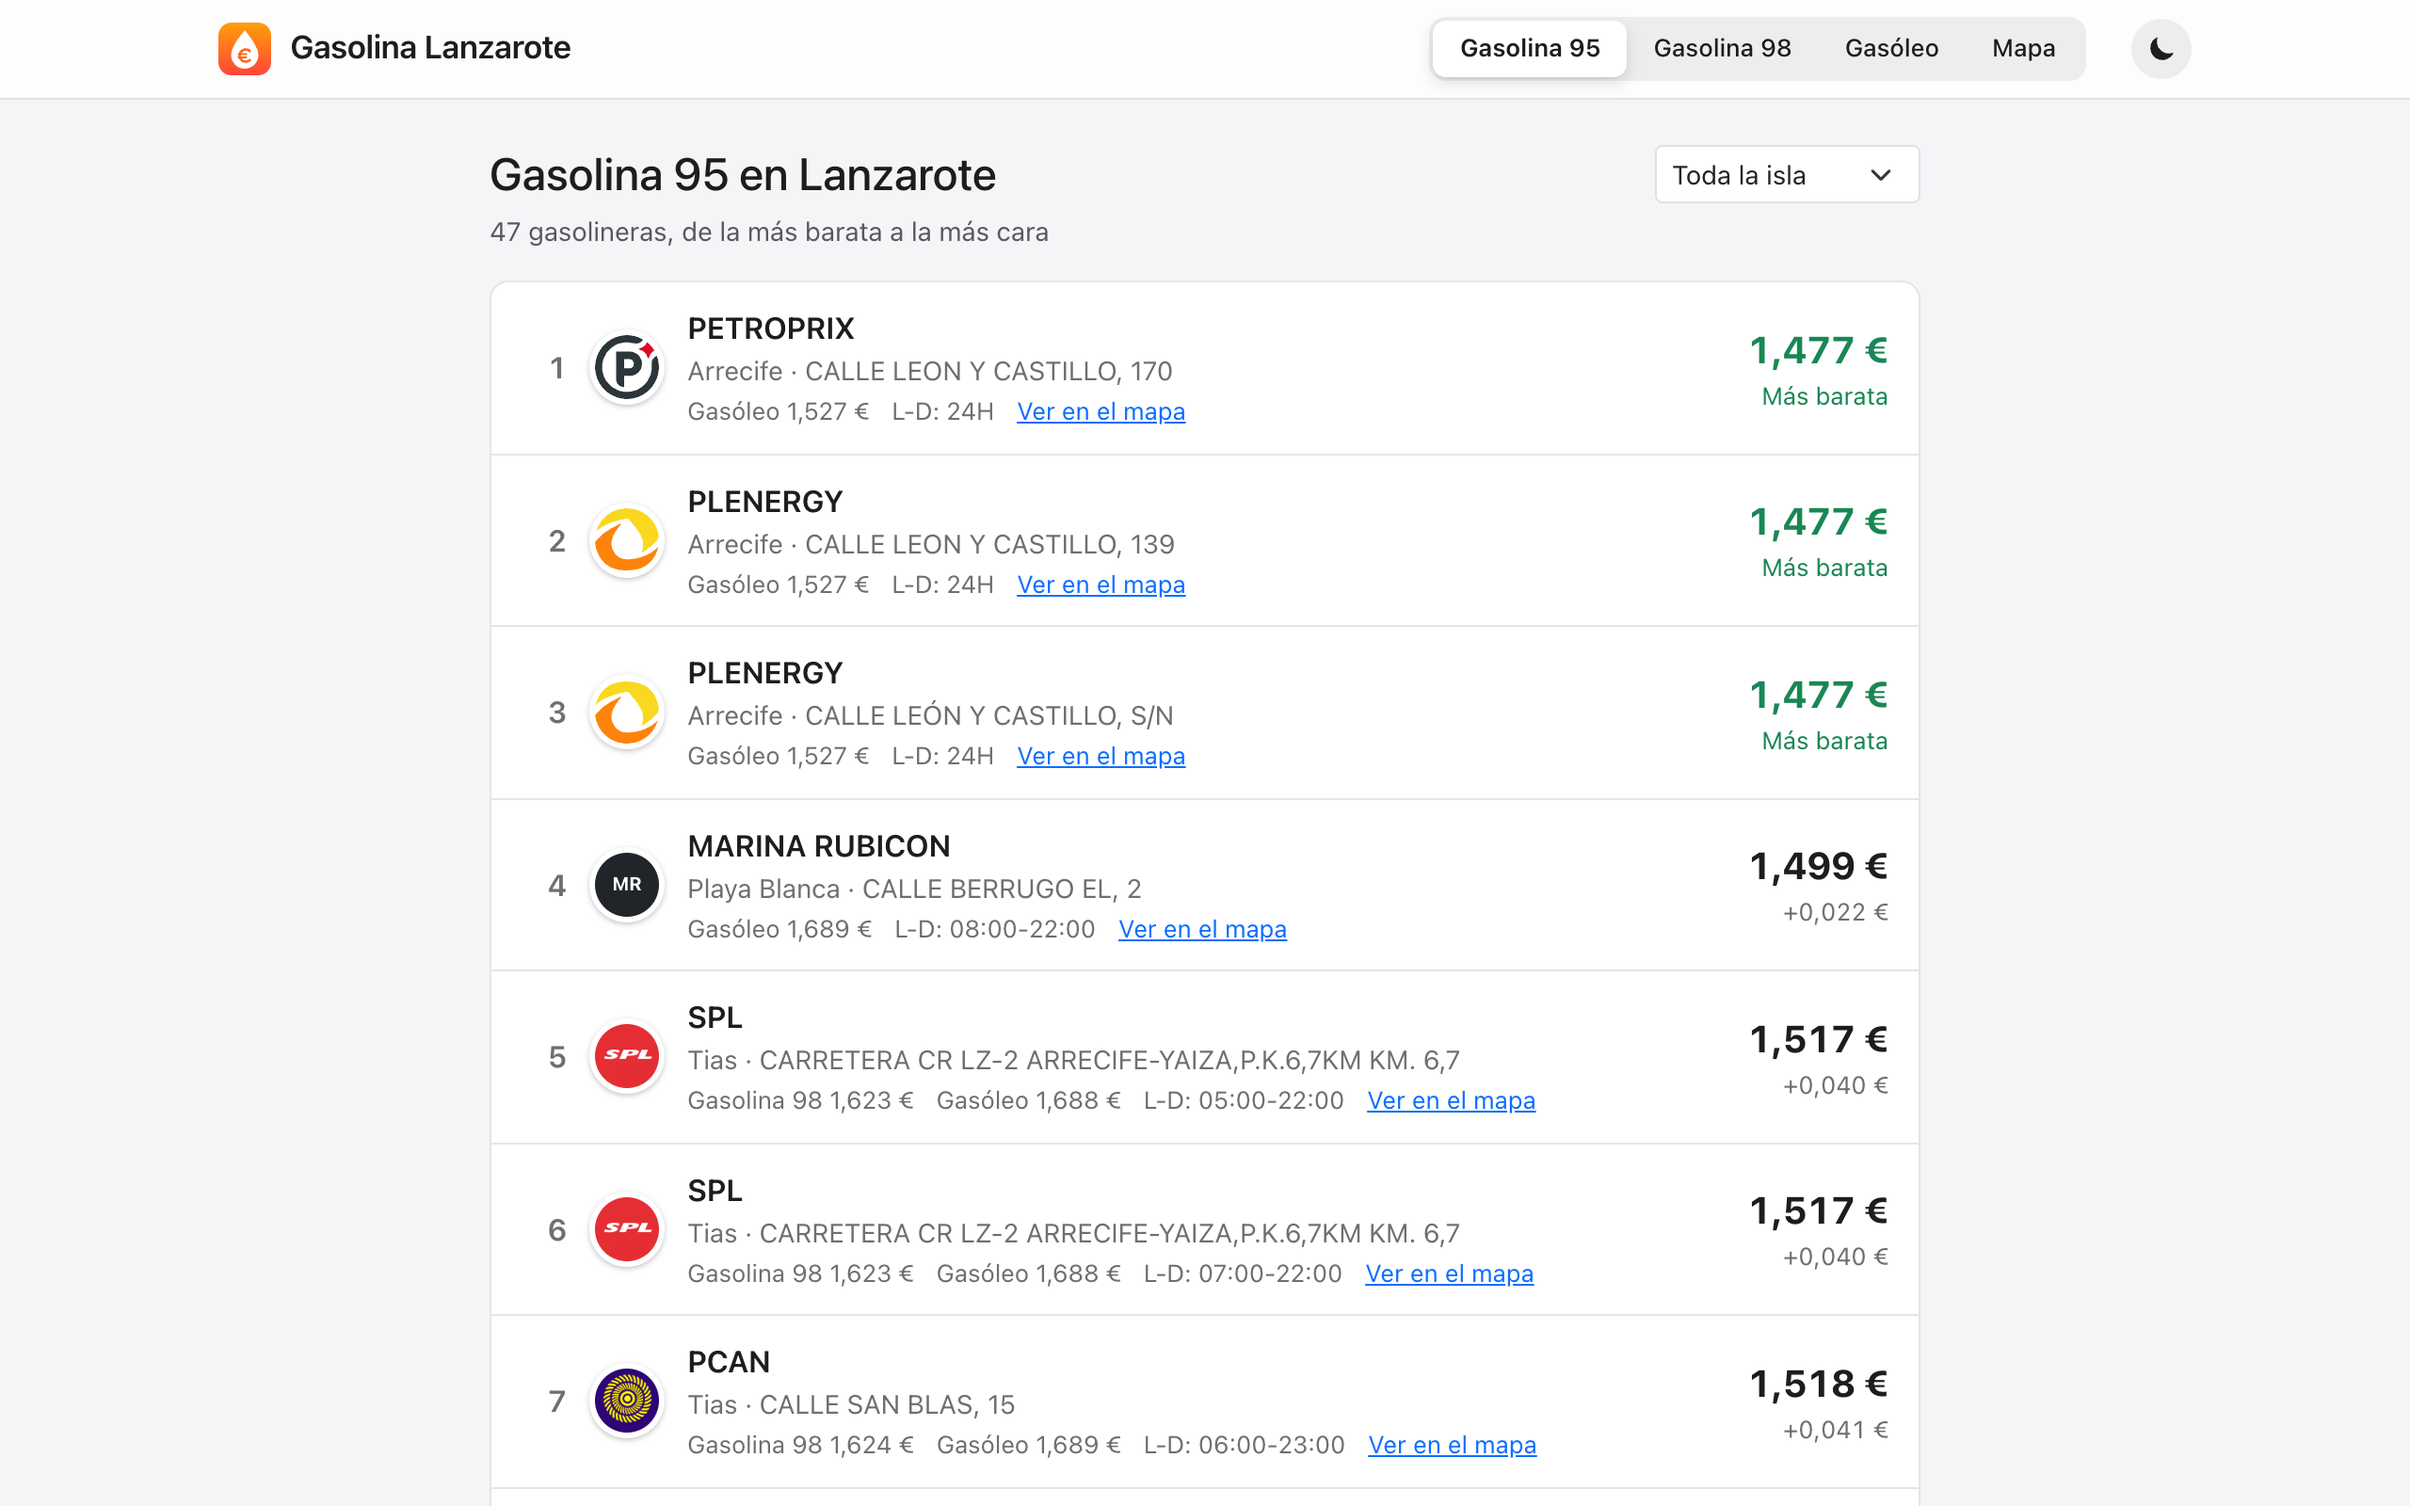
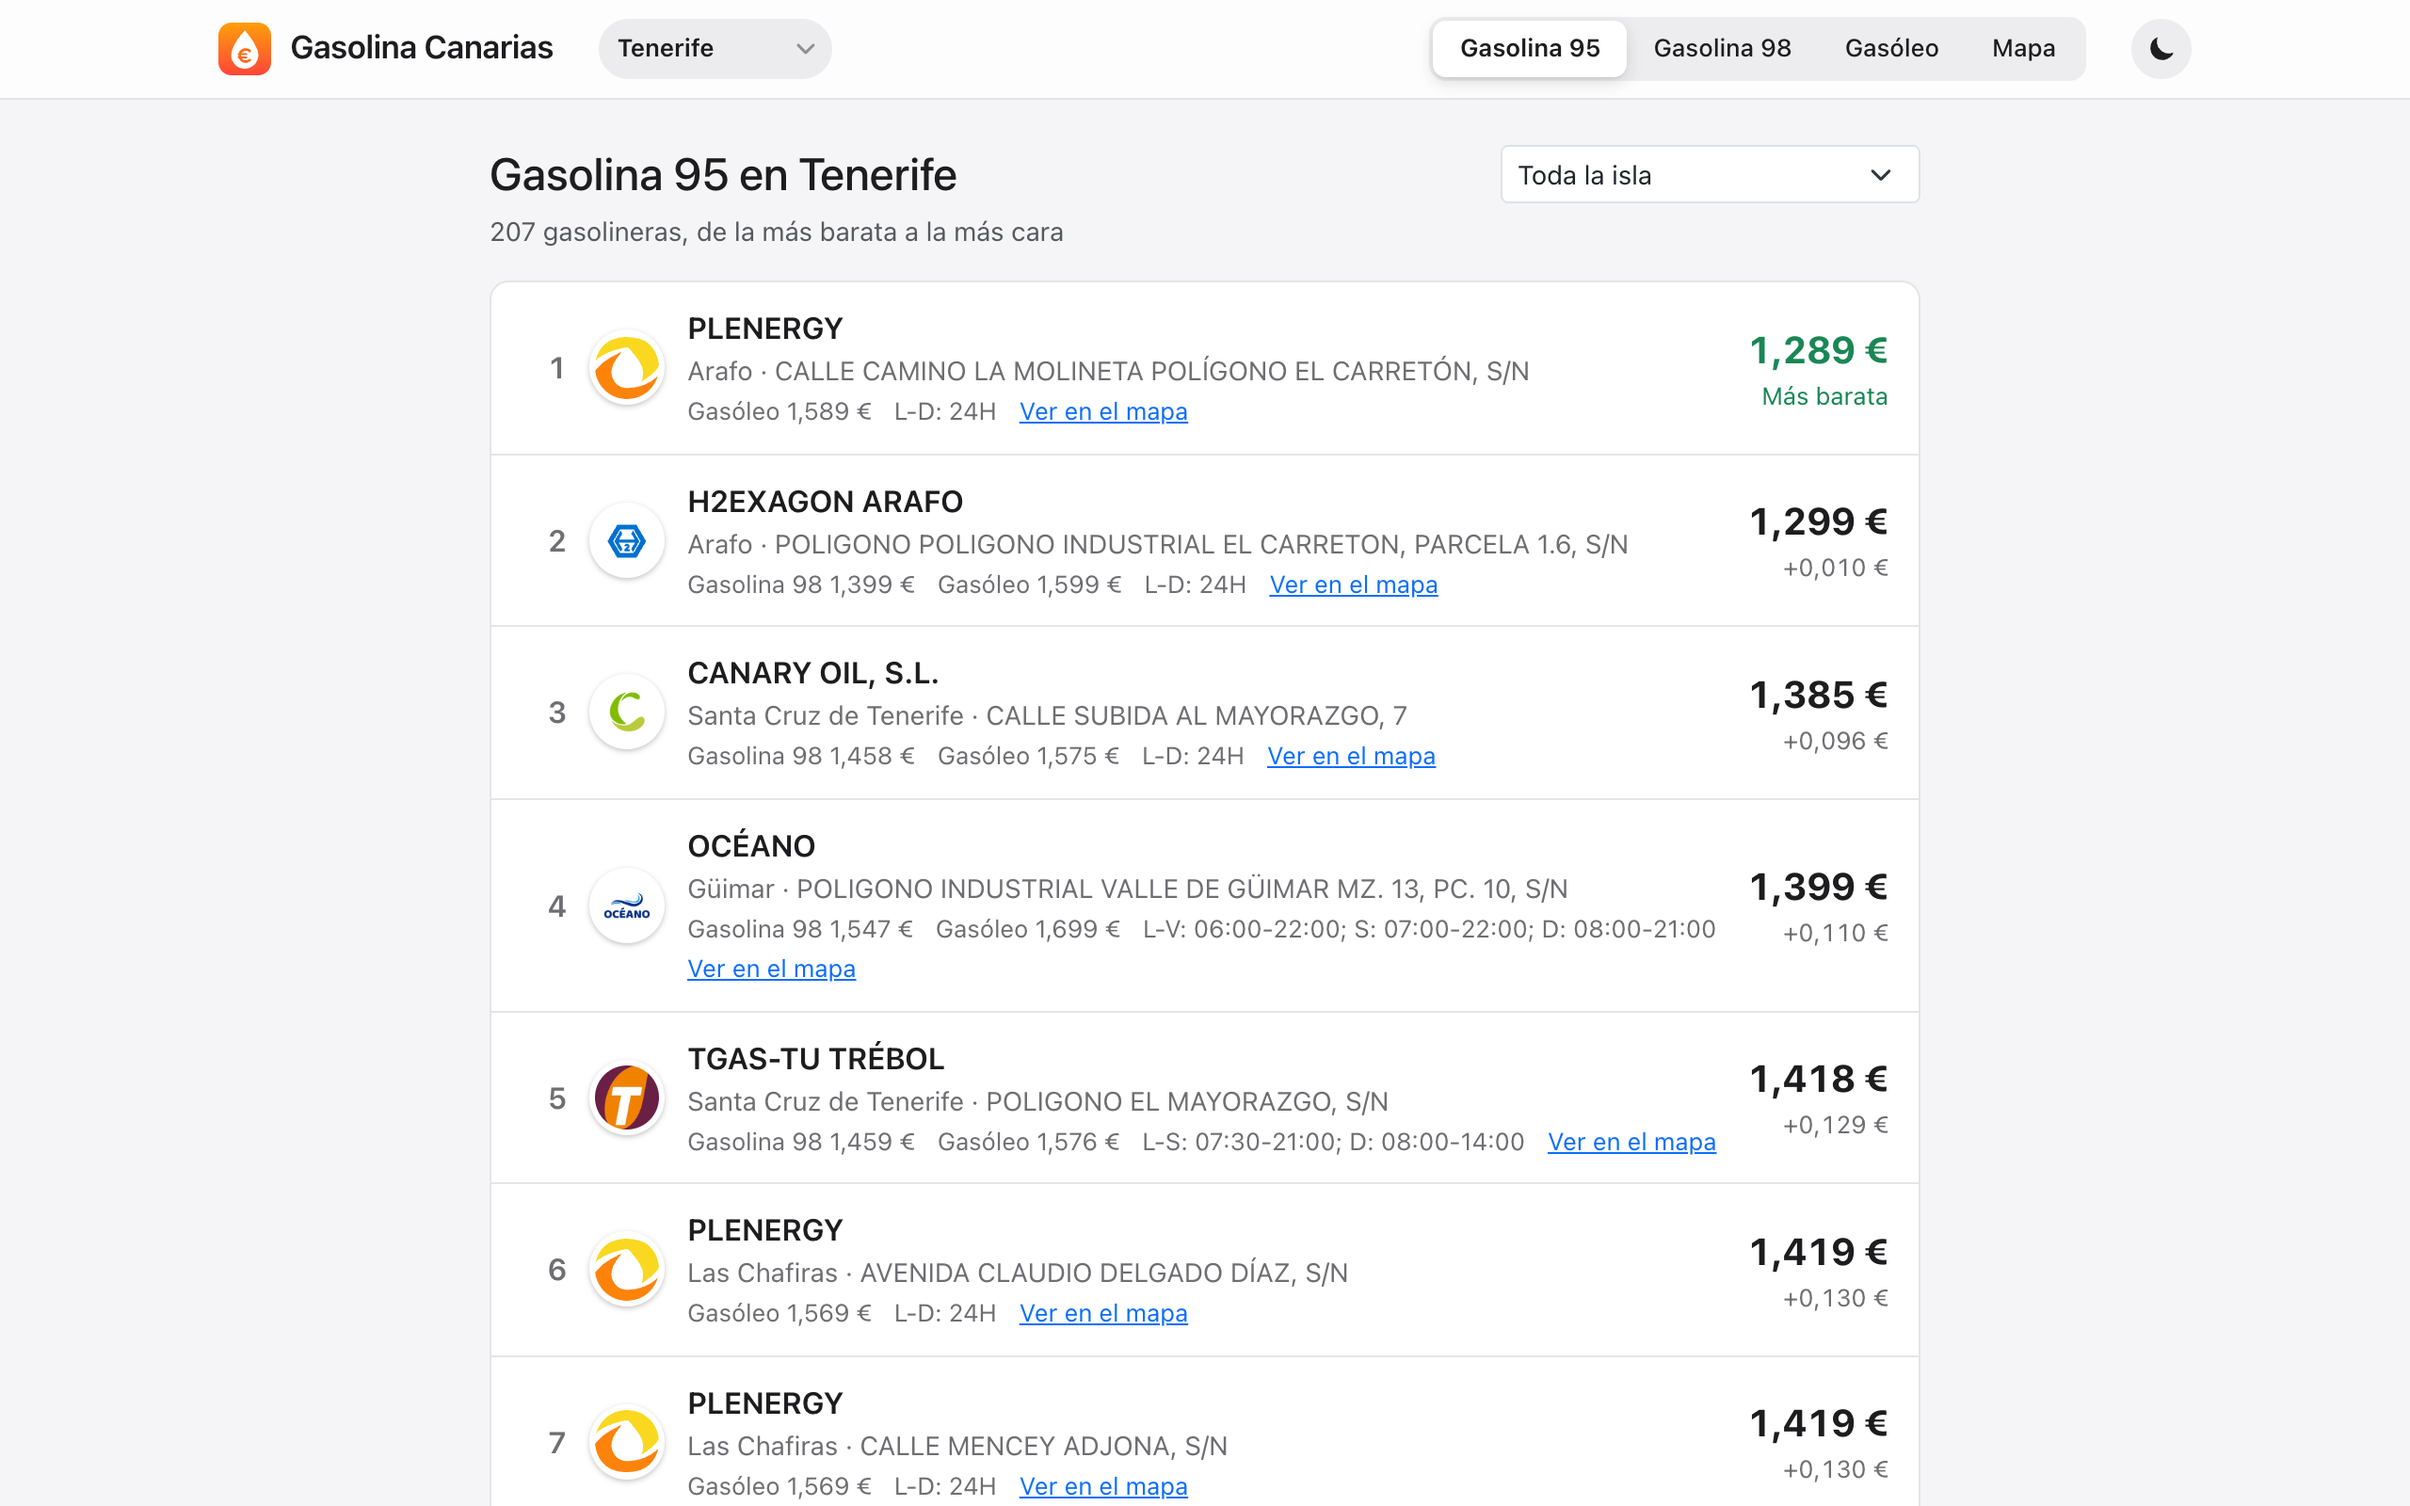
docs(website): update README for all the Canary Islands
New screenshots (Tenerife ranking, Fuerteventura map, Puerto del Rosario
and Las Palmas on mobile), links to the renamed repo, and notes on
island routes and brand logos.

diff --git a/src/utils/marcas.ts b/src/utils/marcas.ts
@@ -28,7 +28,7 @@ const MARCAS: { claves: string[]; nombre: string; logo: string }[] = [
     nombre: 'Combustibles Canarios',
     logo: 'combustibles-canarios.jpg',
   },
-  // https://www.combustiblesantana.com/ (Tuineje, Fuerteventura)
+  // https://www.combustiblesantana.com/ (Fuerteventura y Gran Canaria)
   { claves: ['SANTANA DOMINGUEZ'], nombre: 'Santana Domínguez', logo: 'santana-dominguez.png' },
   // https://canaryoil.com/ (Tenerife y Gran Canaria)
   { claves: ['CANARY OIL'], nombre: 'Canary Oil', logo: 'canary-oil.png' },

diff --git a/README.md b/README.md
@@ -1,30 +1,32 @@
 # Gasolina Canarias
 
-Web que muestra los precios de la gasolina 95, la gasolina 98 y el gasóleo en las gasolineras de las siete islas Canarias, ordenados de más barato a más caro, y un mapa con todas las estaciones.
+Web que muestra los precios de la gasolina 95, la gasolina 98 y el gasóleo en las casi 500 gasolineras de las siete islas Canarias, ordenados de más barato a más caro, y un mapa con todas las estaciones.
 
-**[Ver la web](https://aledeleonez.github.io/appPrecioGasolinaLanzarote/)**
+**[Ver la web](https://aledeleonez.github.io/PrecioGasolinaCanarias/)**
 
-![Ranking de precios de la gasolina 95 en Lanzarote](docs/capturas/lista.png)
+![Ranking de precios de la gasolina 95 en Tenerife](docs/capturas/lista.png)
 
 ## Qué puedes hacer
 
-- Elegir la isla: Lanzarote, Fuerteventura, Gran Canaria, Tenerife, La Gomera, La Palma o El Hierro (unas 500 gasolineras en total).
+- Elegir la isla: Lanzarote, Fuerteventura, Gran Canaria, Tenerife, La Gomera, La Palma o El Hierro. La portada abre la última que elegiste.
 - Ver el ranking de las gasolineras de la isla para cada carburante, con la diferencia de precio respecto a la más barata.
-- Filtrar por municipio y compartir el enlace ya filtrado (por ejemplo, [gasóleo en Tías](https://aledeleonez.github.io/appPrecioGasolinaLanzarote/lanzarote/gasoleo?municipio=tias) o [gasolina 95 en La Oliva](https://aledeleonez.github.io/appPrecioGasolinaLanzarote/fuerteventura?municipio=la-oliva)).
-- Buscar gasolineras en el mapa y ver sus precios al pulsar en ellas.
+- Filtrar por municipio y compartir el enlace ya filtrado, por ejemplo [gasóleo en Puerto del Rosario](https://aledeleonez.github.io/PrecioGasolinaCanarias/fuerteventura/gasoleo?municipio=puerto-del-rosario) o [gasolina 95 en Las Palmas de Gran Canaria](https://aledeleonez.github.io/PrecioGasolinaCanarias/gran-canaria?municipio=las-palmas-de-gran-canaria).
+- Buscar gasolineras en el mapa de cada isla, con el logo de su marca, y ver sus precios al pulsar en ellas.
 - Usarla en el móvil y en modo claro u oscuro.
 
-![Mapa de gasolineras de Lanzarote con sus logos, agrupadas por zona](docs/capturas/mapa.png)
+![Mapa de gasolineras de Fuerteventura con sus logos, agrupadas por zona](docs/capturas/mapa.png)
 
 | Móvil | Modo oscuro |
 | :---: | :---: |
-| <img src="docs/capturas/movil-claro.png" alt="Precios del gasóleo en Tías en el móvil" width="300"> | <img src="docs/capturas/movil-oscuro.png" alt="Lista de precios en modo oscuro en el móvil" width="300"> |
+| <img src="docs/capturas/movil-claro.png" alt="Precios del gasóleo en Puerto del Rosario en el móvil" width="300"> | <img src="docs/capturas/movil-oscuro.png" alt="Precios de la gasolina 95 en Las Palmas de Gran Canaria en modo oscuro" width="300"> |
 
 ## Cómo funciona
 
 Los datos salen de la [API de precios de carburantes](https://sedeaplicaciones.minetur.gob.es/ServiciosRESTCarburantes/PreciosCarburantes/) del Ministerio, que se actualiza cada media hora. Una GitHub Action (`.github/workflows/deploy.yml`) los descarga cada media hora con `scripts/actualizar-datos.ts`: pide las dos provincias canarias, reparte las gasolineras por isla según su municipio (la lista está en `scripts/minetur.ts`) y guarda un JSON limpio por isla (`lanzarote.json`, `tenerife.json`...). Después vuelve a publicar la web, así que el navegador solo descarga el JSON de la isla que estás viendo.
 
-El nombre y el encuadre del mapa de cada isla están en `src/islas.ts`.
+Cada isla tiene sus propias rutas (`/tenerife`, `/tenerife/gasoleo`, `/tenerife/mapa`...). Su nombre y el encuadre del mapa están en `src/islas.ts`.
+
+Los logos están en `public/logos` y `src/utils/marcas.ts` los asigna según el rótulo de la gasolinera. Las marcas sin logo se muestran con sus iniciales.
 
 ## Tecnologías
 
